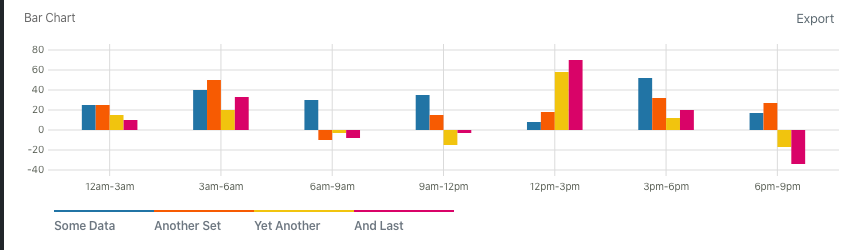
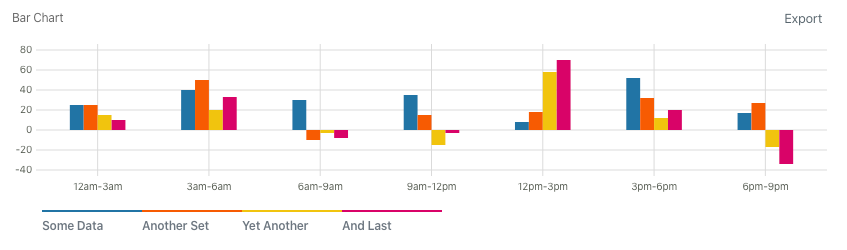
Added charts

diff --git a/navigation.php b/navigation.php
@@ -118,18 +118,18 @@ return [
         'layouts' => [
             'Layouts'         => [
                 'children' => [
-                    'accordion'       => '/ru/docs/layouts/accordion',
-                    'charts'          => '/ru/docs/layouts/charts',
-                    'columns'         => '/ru/docs/layouts/columns',
-                    'custom-template' => '/ru/docs/layouts/custom-template',
-                    'drop-down-list'  => '/ru/docs/layouts/drop-down-list',
-                    'extension'       => '/ru/docs/layouts/extension',
-                    'modals'          => '/ru/docs/layouts/modals',
-                    'rows'            => '/ru/docs/layouts/rows',
-                    'selection'       => '/ru/docs/layouts/selection',
-                    'table'           => '/ru/docs/layouts/table',
-                    'tabs'            => '/ru/docs/layouts/tabs',
-                    'wrapper'         => '/ru/docs/layouts/wrapper',
+                    'Аккордеон'               => '/ru/docs/layouts/accordion',
+                    'Графики'                 => '/ru/docs/layouts/charts',
+                    'Колонки'                 => '/ru/docs/layouts/columns',
+                    'Пользовательский шаблон' => '/ru/docs/layouts/custom-template',
+                    'Раскрывающийся список'   => '/ru/docs/layouts/drop-down-list',
+                    'Расширение слоёв'        => '/ru/docs/layouts/extension',
+                    'Модальные окна'          => '/ru/docs/layouts/modals',
+                    'Строки'                  => '/ru/docs/layouts/rows',
+                    'Набор фильтров'          => '/ru/docs/layouts/selection',
+                    'Таблицы'                 => '/ru/docs/layouts/table',
+                    'Табы'                    => '/ru/docs/layouts/tabs',
+                    'Обертка'                 => '/ru/docs/layouts/wrapper',
                 ],
             ],
         ],

diff --git a/source/ru/docs/layouts/charts.md b/source/ru/docs/layouts/charts.md
@@ -17,15 +17,15 @@ public function query($patient = null) : array
 {
     $charts = [
         [
-            'title'  => "Some Data",
+            'title'  => 'Some Data',
             'values' => [25, 40, 30, 35, 8, 52, 17, -4],
         ],
         [
-            'title'  => "Another Set",
+            'title'  => 'Another Set',
             'values' => [25, 50, -10, 15, 18, 32, 27, 14],
         ],
         [
-            'title'  => "Yet Another",
+            'title'  => 'Yet Another',
             'values' => [15, 20, -3, -15, 58, 12, -17, 37],
         ],
     ];
@@ -49,16 +49,12 @@ use Orchid\Platform\Layouts\Chart;
 
 class ChartsLayout extends Chart
 {
-
     /**
+     * Add a title to the Chart.
+     * 
      * @var string
      */
     protected $title = 'DemoCharts';
-
-    /**
-     * @var int
-     */
-    protected $height = 150;
 
     /**
      * Available options:
@@ -84,8 +80,58 @@ class ChartsLayout extends Chart
     ];
 
     /**
+     * Data source.
+     *
+     * The name of the key to fetch it from the query.
+     * The results of which will be elements of the table.
+     *
      * @var string
      */
     protected $target = 'charts';
 }
 ```
+
+## Высота
+Установите высоту диаграммы в пикселях с помощью указания свойства `height`:
+
+```php
+/**
+ * @var int
+ */
+protected $height = 250;
+```
+
+
+## Цвета
+Установите цвета, которые будут использоваться для каждого отдельного типа единиц, в зависимости от типа диаграммы с помощью указания свойства `colors`:
+
+```php
+/**
+ * Colors used.
+ *
+ * @var array
+ */
+protected $colors = [
+    '#2274A5',
+    '#F75C03',
+    '#F1C40F',
+    '#D90368',
+    '#00CC66',
+];
+```
+
+
+## Экспорт изображения
+
+Диаграммы  можно экспортировать в формате `SVG`, в котором они отображаются изначально. Для этого необходимо указать свойство `export`:
+
+```php
+/**
+ * Determines whether to display the export button.
+ *
+ * @var bool
+ */
+protected $export = true;
+```
+
+
